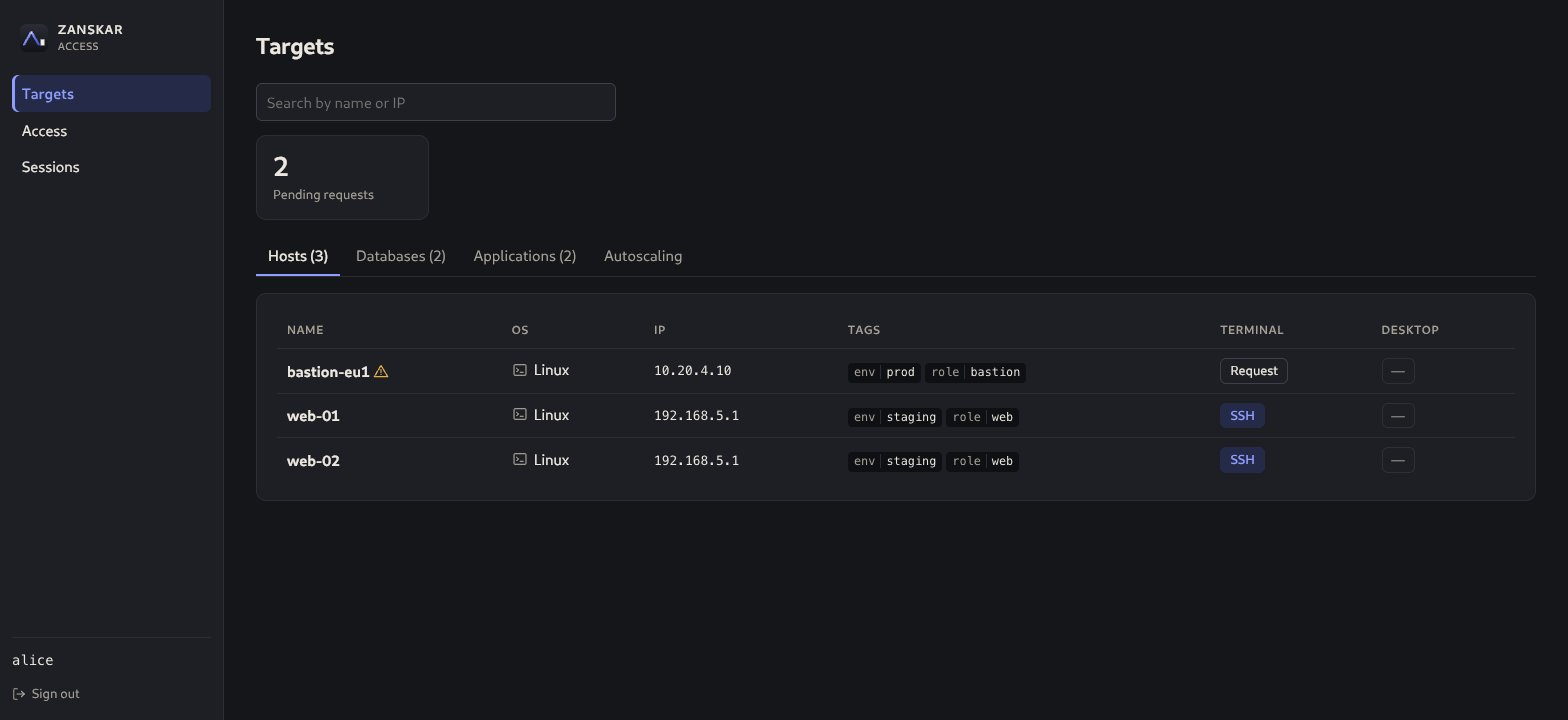
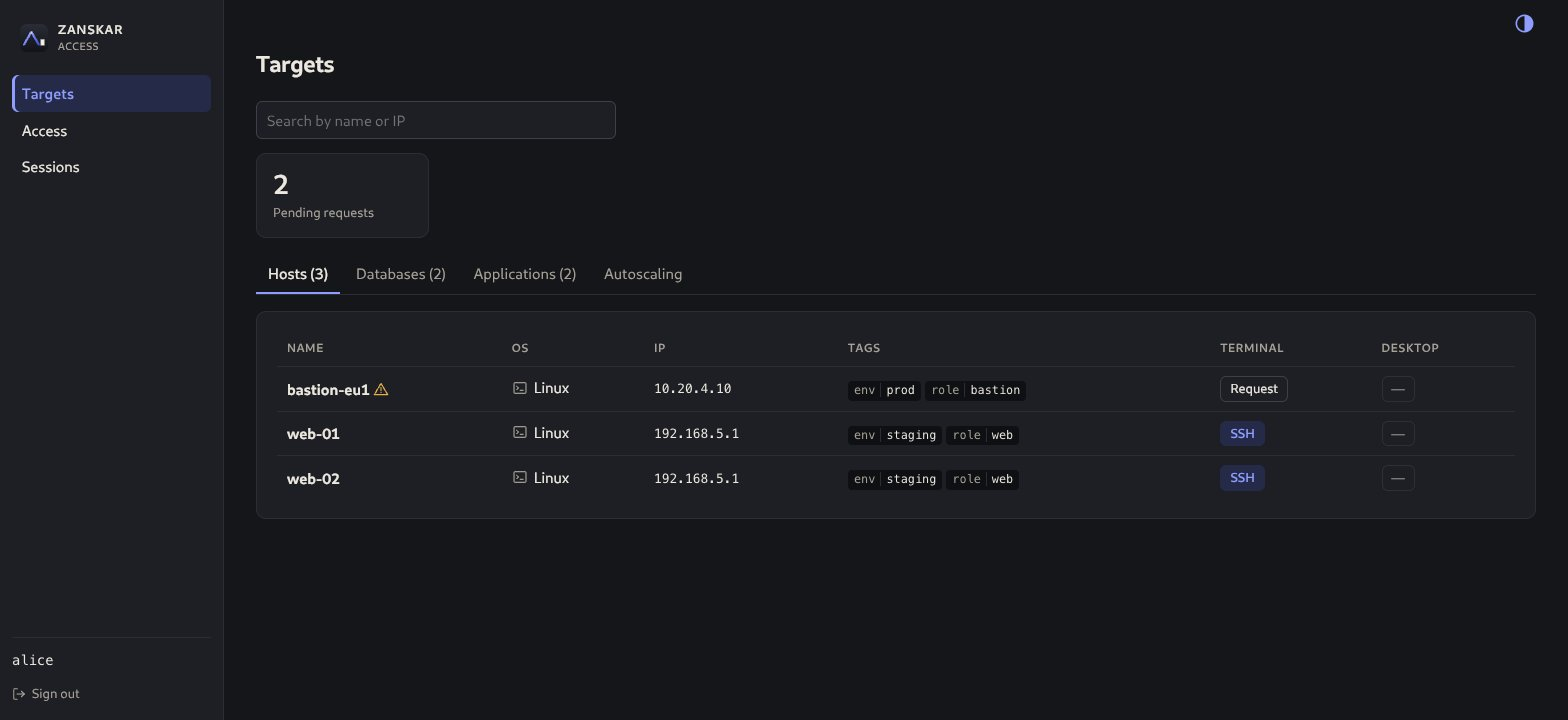
chore(release): 1.9.0
- Notes: docs/releases/v1.9.0.md (what changed, fixes, API, upgrading
  from 1.8.0 with the free-space-first step, migration 0038, the new
  units, moving off Caddy) and the site's releases page.
- latest.json and the JSON-LD at 1.9.0; the chart at 0.9.0 / 1.9.0;
  the roadmap's v1.9 section.
- Screenshots retaken at 1.9.0 from a Linux gateway, in both schemes;
  every page points at them, the alt texts describe the clock, the
  percentages, the policy list's sum and the gear's menu; the README's
  unversioned copies refreshed; the 1.8.0 set removed.

diff --git a/site/index.html b/site/index.html
@@ -18,7 +18,7 @@
   <link rel="icon" href="assets/logo.svg" type="image/svg+xml">
   <link rel="apple-touch-icon" href="assets/apple-touch-icon.png">
   <link rel="stylesheet" href="assets/site.css">
-  <script type="application/ld+json">{"@context":"https://schema.org","@type":"SoftwareApplication","name":"Zanskar","url":"https://albatroxxx.github.io/zanskar/","applicationCategory":"SecurityApplication","operatingSystem":"Linux","softwareVersion":"1.8.0","description":"Agentless access gateway: browser SSH, RDP, VNC, WinRM and database sessions with vaulted credentials, policies, just-in-time approvals, recording and a hash-chained audit log.","downloadUrl":"https://github.com/albatroxxx/zanskar/releases/latest","license":"https://github.com/albatroxxx/zanskar/blob/main/LICENSE","offers":{"@type":"Offer","price":"0","priceCurrency":"USD"}}</script>
+  <script type="application/ld+json">{"@context":"https://schema.org","@type":"SoftwareApplication","name":"Zanskar","url":"https://albatroxxx.github.io/zanskar/","applicationCategory":"SecurityApplication","operatingSystem":"Linux","softwareVersion":"1.9.0","description":"Agentless access gateway: browser SSH, RDP, VNC, WinRM and database sessions with vaulted credentials, policies, just-in-time approvals, recording and a hash-chained audit log.","downloadUrl":"https://github.com/albatroxxx/zanskar/releases/latest","license":"https://github.com/albatroxxx/zanskar/blob/main/LICENSE","offers":{"@type":"Offer","price":"0","priceCurrency":"USD"}}</script>
   <script src="assets/site.js" defer></script>
 </head>
 <body>
@@ -43,14 +43,14 @@
         <article><span class="index">09</span><h3>Recorded and audited</h3><p>Every session is recorded; recordings and command transcripts can be downloaded, and every view and download is itself audited. Retention is set globally and per policy or target. The audit log is hash-chained with a <code>verify</code> command and streams to a SIEM over syslog/CEF or a signed webhook.</p></article>
         <article><span class="index">10</span><h3>Operations</h3><p>One static binary with the web UI embedded. <code>zanskar init</code> serves HTTPS on 443 out of the box with a certificate you replace on the Settings page. Runtime settings apply live, the console says when the environment file needs a restart and drains sessions for it, recordings move to an S3-compatible bucket without a restart, and the Logs page shows the gateway's recent lines. Administrators can also work from a command line inside the console, opened with an authenticator code and audited line by line. <code>backup</code>, <code>restore</code> and <code>key rotate-master</code> stay on the host.</p></article>
       </div>
-      <figure><img src="assets/dashboard-light-1.8.0.jpg" width="1568" height="824" alt="The admin dashboard: tiles for what needs attention (two pending approvals), activity, and the inventory of hosts, databases and applications, then the gateway card with CPU, memory and disk gauges" loading="lazy"><figcaption>The dashboard an administrator lands on: what waits on a decision, what is live, the fleet, and the gateway host itself. Every number opens the page that manages it.</figcaption></figure>
+      <figure><img src="assets/dashboard-light-1.9.0.jpg" width="1568" height="824" alt="The admin dashboard: tiles for what needs attention (two pending approvals), activity, and the inventory of hosts, databases and applications, a clock with the date and time zone beside them, then the gateway card with CPU, memory and disk gauges, each as a percentage" loading="lazy"><figcaption>The dashboard an administrator lands on: what waits on a decision, what is live, the fleet, and the gateway host itself. Every number opens the page that manages it.</figcaption></figure>
       <div class="gallery">
-        <figure><img src="assets/approvals-light-1.8.0.jpg" width="1568" height="720" alt="The Approvals page: two pending requests with user, target, protocol, reason and duration, each with Approve and Deny, and one active time-boxed grant with Revoke" loading="lazy"><figcaption>Just-in-time requests wait in the Approvals queue; an approved grant is time-boxed and expires by itself.</figcaption></figure>
-        <figure><img src="assets/hosts-light-1.8.0.jpg" width="1568" height="720" alt="The Hosts page: Linux and Windows machines with capabilities, host-key trust state, tags and last probe time" loading="lazy"><figcaption>Hosts are enrolled by address; the host key is pinned at the first probe, and any change blocks connections until an admin decides.</figcaption></figure>
-        <figure><img src="assets/user-targets-light-1.8.0.jpg" width="1568" height="720" alt="The access portal: the hosts a user's policies grant, with an SSH button on each, a Request button on the bastion that needs approval, and a count of pending requests" loading="lazy"><figcaption>What a user sees: only the targets their policies grant, a button per protocol, and a request where approval is required.</figcaption></figure>
-        <figure><img src="assets/applications-light-1.8.0.jpg" width="1568" height="720" alt="The Applications page: a checklist of what the gateway host still needs, then two web applications with their upstream, TLS state and tags" loading="lazy"><figcaption>Web applications are enrolled by address and open in an isolated browser beside the gateway, recorded like a desktop.</figcaption></figure>
-        <figure><img src="assets/audit-events-light-1.8.0.jpg" width="1568" height="800" alt="The audit events page: filters by user, action, object and time, then a list of events in plain words, a sign-in, a session opened and ended, access requested, each with a success mark; a badge says the chain is intact" loading="lazy"><figcaption>Every event in plain words, hash-chained, with the chain verified on the page and from the command line.</figcaption></figure>
-        <figure><img src="assets/console-cli-light-1.8.0.jpg" width="1568" height="800" alt="The console's command line open over the Policies page, after a status command and a listing of pending requests; a badge says the authenticator code is verified" loading="lazy"><figcaption>An audited command line inside the console, unlocked with an authenticator code, for the operations an admin repeats.</figcaption></figure>
+        <figure><img src="assets/approvals-light-1.9.0.jpg" width="1568" height="720" alt="The Approvals page: two pending requests with user, target, protocol, reason and duration, each with Approve and Deny, and one active time-boxed grant with Revoke" loading="lazy"><figcaption>Just-in-time requests wait in the Approvals queue; an approved grant is time-boxed and expires by itself.</figcaption></figure>
+        <figure><img src="assets/hosts-light-1.9.0.jpg" width="1568" height="720" alt="The Hosts page: Linux and Windows machines with capabilities, host-key trust state, tags and last probe time" loading="lazy"><figcaption>Hosts are enrolled by address; the host key is pinned at the first probe, and any change blocks connections until an admin decides.</figcaption></figure>
+        <figure><img src="assets/user-targets-light-1.9.0.jpg" width="1568" height="720" alt="The access portal: the hosts a user's policies grant, with an SSH button on each, a Request button on the bastion that needs approval, and a count of pending requests" loading="lazy"><figcaption>What a user sees: only the targets their policies grant, a button per protocol, and a request where approval is required.</figcaption></figure>
+        <figure><img src="assets/applications-light-1.9.0.jpg" width="1568" height="720" alt="The Applications page: a checklist of what the gateway host still needs, then two web applications with their upstream, TLS state and tags" loading="lazy"><figcaption>Web applications are enrolled by address and open in an isolated browser beside the gateway, recorded like a desktop.</figcaption></figure>
+        <figure><img src="assets/audit-events-light-1.9.0.jpg" width="1568" height="800" alt="The audit events page: filters by user, action, object and time, then a list of events in plain words, a sign-in, a session opened and ended, access requested, each with a success mark; a badge says the chain is intact" loading="lazy"><figcaption>Every event in plain words, hash-chained, with the chain verified on the page and from the command line.</figcaption></figure>
+        <figure><img src="assets/console-cli-light-1.9.0.jpg" width="1568" height="800" alt="The console's command line open over the Policies page, after a status command and a listing of pending requests; a badge says the authenticator code is verified" loading="lazy"><figcaption>An audited command line inside the console, unlocked with an authenticator code, for the operations an admin repeats.</figcaption></figure>
       </div>
     </section>
     <section class="principles band"><div><p class="eyebrow">HOW IT IS BUILT</p><h2>Secure by default.</h2><p>Zanskar is designed for compliance-driven environments: least standing privilege, separated authentication, and evidence for everything.</p><p>Read the <a href="https://github.com/albatroxxx/zanskar/blob/main/docs/threat-model.md">threat model</a> and the <a href="https://github.com/albatroxxx/zanskar/tree/main/docs/adr">architecture decision records</a>.</p></div><dl><div><dt>Two authentications, kept apart</dt><dd>Who you are to Zanskar (local, OIDC, LDAP/AD, MFA) is separate from how Zanskar authenticates to a target (password, key, certificate, domain credential).</dd></div><div><dt>Least standing privilege</dt><dd>Sensitive targets can be made eligible-only, so access exists only as a time-boxed, approved, audited grant.</dd></div><div><dt>Evidence for everything</dt><dd>Hash-chained audit log, recorded sessions, audited reads, SIEM export, signed releases with Sigstore.</dd></div><div><dt>Single instance, on purpose</dt><dd>One gateway, on embedded SQLite or your PostgreSQL, with a guacd sidecar for desktops. Running several replicas is not supported yet: ending or watching a live session has to work across gateways first, and the Helm chart stays a preview until it does.</dd></div></dl></section>

diff --git a/site/releases/index.html b/site/releases/index.html
@@ -2,7 +2,7 @@
 <html lang="en"><head>
   <meta charset="utf-8"><meta name="viewport" content="width=device-width, initial-scale=1">
   <title>Zanskar Releases</title>
-  <meta name="description" content="Zanskar 1.8.0: access policies as an audience and grants, with conditions per grant and every stored policy converted with the same access. Notes for every version.">
+  <meta name="description" content="Zanskar 1.9.0: host actions with progress, install settings and Let's Encrypt from the console, one time zone, a lighter browser image. Notes for every version.">
   <link rel="canonical" href="https://albatroxxx.github.io/zanskar/releases/">
   <meta name="robots" content="index,follow"><meta property="og:type" content="website">
   <meta property="og:title" content="Zanskar Releases"><meta property="og:description" content="Release notes for Zanskar, the agentless access gateway.">
@@ -11,8 +11,13 @@
 </head><body>
   <a class="skip" href="#main">Skip to content</a>
   <header class="site-header"><a class="brand" href="../"><img src="../assets/logo.svg" alt="" width="32" height="32">Zanskar</a><nav aria-label="Main"><a href="../docs/">Get started</a><a href="../guide/">How-to guide</a><a href="../concepts/">Concepts</a><a href="../troubleshooting/">Troubleshooting</a><a href="./" aria-current="page">Releases</a><a href="https://github.com/albatroxxx/zanskar">GitHub &#8599;</a></nav></header>
-  <main id="main" class="docs-layout"><nav class="docs-nav" aria-label="Release navigation"><a href="#v1-8-0">v1.8.0</a><a href="#upgrade-1-8-0">Upgrading to 1.8.0</a><a href="#v1-7-2">v1.7.2</a><a href="#upgrade-1-7-2">Upgrading to 1.7.2</a><a href="#v1-7-1">v1.7.1</a><a href="#upgrade-1-7-1">Upgrading to 1.7.1</a><a href="#v1-7-0">v1.7.0</a><a href="#upgrade-1-7-0">Upgrading to 1.7.0</a><a href="#v1-6-0">v1.6.0</a><a href="#upgrade-1-6-0">Upgrading to 1.6.0</a><a href="#v1-5-0">v1.5.0</a><a href="#upgrade-1-5-0">Upgrading to 1.5.0</a><a href="#v1-4-1">v1.4.1</a><a href="#upgrade-1-4-1">Upgrading to 1.4.1</a><a href="#v1-4-0">v1.4.0</a><a href="#upgrade-1-4-0">Upgrading to 1.4.0</a><a href="#v1-3-0">v1.3.0</a><a href="#upgrade-1-3-0">Upgrading to 1.3.0</a><a href="#v1-2-2">v1.2.2</a><a href="#upgrade-1-2-2">Upgrading to 1.2.2</a><a href="#v1-2-1">v1.2.1</a><a href="#upgrade-1-2-1">Upgrading to 1.2.1</a><a href="#v1-2">v1.2.0</a><a href="#limits-1-2">Known limitations</a><a href="#upgrade">Upgrading</a><a href="#v1">v1.0.0</a><a href="#next">What comes next</a><a href="../docs/">Installation</a><a href="https://github.com/albatroxxx/zanskar/releases">All releases</a></nav><article class="prose">
-    <p class="eyebrow">RELEASE NOTES</p><h1 id="v1-8-0">Zanskar v1.8.0</h1><p class="release-date">Latest release</p>
+  <main id="main" class="docs-layout"><nav class="docs-nav" aria-label="Release navigation"><a href="#v1-9-0">v1.9.0</a><a href="#upgrade-1-9-0">Upgrading to 1.9.0</a><a href="#v1-8-0">v1.8.0</a><a href="#upgrade-1-8-0">Upgrading to 1.8.0</a><a href="#v1-7-2">v1.7.2</a><a href="#upgrade-1-7-2">Upgrading to 1.7.2</a><a href="#v1-7-1">v1.7.1</a><a href="#upgrade-1-7-1">Upgrading to 1.7.1</a><a href="#v1-7-0">v1.7.0</a><a href="#upgrade-1-7-0">Upgrading to 1.7.0</a><a href="#v1-6-0">v1.6.0</a><a href="#upgrade-1-6-0">Upgrading to 1.6.0</a><a href="#v1-5-0">v1.5.0</a><a href="#upgrade-1-5-0">Upgrading to 1.5.0</a><a href="#v1-4-1">v1.4.1</a><a href="#upgrade-1-4-1">Upgrading to 1.4.1</a><a href="#v1-4-0">v1.4.0</a><a href="#upgrade-1-4-0">Upgrading to 1.4.0</a><a href="#v1-3-0">v1.3.0</a><a href="#upgrade-1-3-0">Upgrading to 1.3.0</a><a href="#v1-2-2">v1.2.2</a><a href="#upgrade-1-2-2">Upgrading to 1.2.2</a><a href="#v1-2-1">v1.2.1</a><a href="#upgrade-1-2-1">Upgrading to 1.2.1</a><a href="#v1-2">v1.2.0</a><a href="#limits-1-2">Known limitations</a><a href="#upgrade">Upgrading</a><a href="#v1">v1.0.0</a><a href="#next">What comes next</a><a href="../docs/">Installation</a><a href="https://github.com/albatroxxx/zanskar/releases">All releases</a></nav><article class="prose">
+    <p class="eyebrow">RELEASE NOTES</p><h1 id="v1-9-0">Zanskar v1.9.0</h1><p class="release-date">Latest release</p>
+    <p>The console after a walk through it on a live gateway. Restart, reboot, stop and update follow the action to its end, with a green tick or the reason it failed, and the gear and the bell drop from their buttons. On a package install, install settings (the public URL, TLS hosts, the TLS mode and a few more) change from the Settings page: a root helper applies the change, checks the gateway would start with it, and puts the old file back if the gateway does not come back. In managed mode the gateway gets its own certificate from Let's Encrypt. Deleting a host, database, application or autoscaling group takes it out of its policies, after a dialog that lists what it reaches, instead of being refused. Every time in the console follows one time zone, set in Settings, and the dashboard has a clock and a percentage on every gauge. The policy list sums each policy up and opens to its grants; the editor has Select all and shows the protocols a probe did not find. A theme menu offers System, Light and Dark. The browser image is Debian 13 with Chromium 156, about a 270 MB download instead of 340 MB, and the gateway removes earlier versions' images from its host.</p>
+    <p><a class="button primary" href="../docs/#install">Install</a> <a class="button" href="https://github.com/albatroxxx/zanskar/releases/tag/v1.9.0">Release on GitHub</a> <a class="button" href="https://github.com/albatroxxx/zanskar/blob/main/docs/releases/v1.9.0.md">The full notes</a></p>
+    <h2 id="upgrade-1-9-0">Upgrading from 1.8.0 to 1.9.0</h2>
+    <p><strong>Free disk space first</strong> on a host that runs applications and is short of it: the new browser image is a full download, and the gateway removes the old images on its first pass after the upgrade, but an application opened before that pulls the new one beside them. <code>sudo docker image rm ghcr.io/albatroxxx/zanskar-browser:1.8.0 ghcr.io/albatroxxx/zanskar:1.8.0</code> (and any older tags) does it by hand. Then install the new package, or set <code>ZANSKAR_VERSION=1.9.0</code>, and restart. Migration 0038 adds one table; 1.8.0 still starts on the migrated database. The package adds <code>zanskar-config.path</code>, which lets the console change install settings; a tarball or the AWS reference install does not have it. To move a Caddy-fronted gateway to the gateway's own Let's Encrypt certificate, set the public URL, stop Caddy, then switch the TLS mode to managed. Deleting a target named by a policy now succeeds where it answered <code>409 in_use</code>; <code>POST /users</code> and <code>POST /groups</code> take <code>group_ids</code> and <code>user_ids</code>.</p>
+    <h2 id="v1-8-0">Zanskar v1.8.0</h2><p class="release-date">30 October 2026</p>
     <p>Access policies, redesigned. A policy now says who it is for, any number of groups and users picked from searchable lists, and holds grants. Each grant picks a type of target first (host, database, application or autoscaling group), then the targets with a protocol each, or tags as Key and Value rows, then its own conditions: standing or approval, the target's credential or the person's own login, an authenticator, clipboard, file transfer, idle and maximum, days to keep recordings, and time windows. One policy can give a team standing SSH to staging and approval-only RDP to production. Where grants overlap, standing access wins over approval and each limit is the strictest. Live sessions are checked again whenever a policy or a group changes, and end when a fresh connect would be refused or when clipboard or file transfer would now be off. Deleting a group takes it out of its policies, which stay. The access portal offers <em>as me</em> where a grant signs a person in with their own login.</p>
     <p><a class="button primary" href="../docs/#install">Install</a> <a class="button" href="https://github.com/albatroxxx/zanskar/releases/tag/v1.8.0">Release on GitHub</a> <a class="button" href="https://github.com/albatroxxx/zanskar/blob/main/docs/releases/v1.8.0.md">The full notes</a></p>
     <h2 id="upgrade-1-8-0">Upgrading from 1.7.2 to 1.8.0</h2>

diff --git a/site/troubleshooting/index.html b/site/troubleshooting/index.html
@@ -9,7 +9,7 @@
   <meta property="og:title" content="Troubleshooting">
   <meta property="og:description" content="Where Zanskar logs, what its log lines and error codes mean, and the fix for each: guacd down, host key mismatch, wrong version number, invalid ticket, approval required.">
   <meta property="og:type" content="website"><meta property="og:url" content="https://albatroxxx.github.io/zanskar/troubleshooting/">
-  <meta property="og:image" content="https://albatroxxx.github.io/zanskar/assets/policies-1.8.0.jpg"><meta name="twitter:card" content="summary_large_image">
+  <meta property="og:image" content="https://albatroxxx.github.io/zanskar/assets/policies-1.9.0.jpg"><meta name="twitter:card" content="summary_large_image">
   <link rel="icon" href="../assets/logo.svg" type="image/svg+xml"><link rel="stylesheet" href="../assets/site.css"><script src="../assets/site.js" defer></script>
 </head>
 <body>

diff --git a/site/concepts/index.html b/site/concepts/index.html
@@ -9,7 +9,7 @@
   <meta property="og:title" content="Key concepts">
   <meta property="og:description" content="The master key, ExternalIds, host-key and certificate pins, session cookies, CSRF tokens and connect tickets: what each is, when it changes, how to back it up and rotate it.">
   <meta property="og:type" content="website"><meta property="og:url" content="https://albatroxxx.github.io/zanskar/concepts/">
-  <meta property="og:image" content="https://albatroxxx.github.io/zanskar/assets/policies-1.8.0.jpg"><meta name="twitter:card" content="summary_large_image">
+  <meta property="og:image" content="https://albatroxxx.github.io/zanskar/assets/policies-1.9.0.jpg"><meta name="twitter:card" content="summary_large_image">
   <link rel="icon" href="../assets/logo.svg" type="image/svg+xml"><link rel="stylesheet" href="../assets/site.css"><script src="../assets/site.js" defer></script>
 </head>
 <body>

diff --git a/docs/releases/v1.9.0.md b/docs/releases/v1.9.0.md
@@ -1,0 +1,135 @@
+# Zanskar 1.9.0
+
+The console after a walk through it on a live gateway. Host actions and updates show their
+progress and how they ended; install settings change from the console through a root
+helper that rolls back a change the gateway does not come back from; the gateway gets its
+own Let's Encrypt certificate in managed mode; deleting a host takes it out of its
+policies; every time follows one time zone; the dashboard reads in percentages; the policy
+list and editor handle dozens of targets; and the browser image is lighter, with old images
+removed after an upgrade. Built with Go 1.27.3.
+
+## What changed
+
+- **Host actions show progress.** Restart gateway, Reboot host, Stop host and Install
+  follow the action to its end: waiting for live sessions (how many, until when), the
+  installer's own words, restarting, and back, with a green tick ("Updated to 1.9.0",
+  "Host rebooted") or the reason it failed. Success is judged by the gateway's answers: a
+  fresh process, on the version asked for. The drain can be cancelled from the same view.
+- **The gear and the bell drop from their buttons**, as cloud consoles' Actions menus do.
+  An action the host cannot take is greyed with one line of why ("Needs a systemd host.").
+- **A theme menu** beside the bell: System, Light or Dark, kept per browser and applied
+  before the first paint. The corner icons are 10% smaller. The command line's header is
+  glyphs with their words on hover; its code step is one line.
+- **Install settings from the console.** On a package install, Settings, Set at install has
+  Edit on the public URL, TLS hosts, issuer, log format, the Apps and Database session caps
+  and the AWS gateway principal, and a switch between the managed and proxy TLS presets.
+  The gateway never writes its environment file: it asks, after a fresh authenticator code
+  and a drain, and `zanskar-config.service` applies the change as root, checks that the
+  gateway would start with the new file, keeps the old one as `env.previous`, restarts, and
+  puts the old file back if the gateway does not answer within 60 seconds. Everything else
+  (database, master key, container runtime, listen address outside the presets, plain
+  HTTP, proxy trust, TLS file paths) stays install-only. `zanskar config check --env FILE`
+  says whether the gateway would start with a file. ([ADR 0020](../adr/0020-runtime-settings-console-overrides-environment.md), amended.)
+- **Let's Encrypt in managed mode.** Settings, Let's Encrypt: on, an account email, and an
+  ACME directory (Let's Encrypt by default, or a private ACME CA). The gateway orders a
+  certificate for the public URL's host and the DNS names among the TLS hosts, never for a
+  name a stranger sends, answers the CA on its TLS and :80 listeners, renews on its own, and
+  keeps the account and certificates sealed in the database, so a second gateway on it
+  reuses them. An uploaded certificate still wins. A CA that is down costs a handshake at
+  most 10 seconds before the next certificate serves. ([ADR 0021](../adr/0021-managed-tls-certificate.md), amended.)
+- **Deleting a target takes it out of its policies** instead of being refused while any
+  policy names it. The delete dialog lists what it reaches (the policies that lose it, a
+  grant left naming nothing, live sessions, open access requests) and asks for the name;
+  one transaction removes the target from every grant and closes its requests, then its
+  sessions end (`target_deleted`). A policy left with no grant stays and grants nobody.
+  ([ADR 0036](../adr/0036-access-policy-grants.md), amended.)
+- **One time zone.** Settings, Display, Time zone sets the zone of every time in the
+  console, all three portals, and of the dashboard's new clock; the default is the gateway
+  host's zone. The operating system is not touched.
+- **The dashboard reads in percentages**: CPU busy, memory used, and each disk as `df`'s
+  Use%, in the warning colour when it is one. A CPU reading after a long gap starts fresh
+  instead of averaging the gap.
+- **The policy list** sums each policy up ("3 grants · Host 2 · Autoscaling 1") with an
+  Access column for the loosest terms (a danger badge on standing access without an
+  authenticator) and opens to a table of its grants.
+- **The policy editor** has Select all in every pick list, an "All chosen" row that sets one
+  protocol on every chosen target, and shows the protocols a target's operating system
+  usually serves that its last probe did not find, greyed; one a grant already chooses shows
+  in the warning colour.
+- **Add host** asks for a hostname or IP address and shows the ports its operating system
+  uses, with the rarer ones under More ports. "Recording retention (days)" says its order:
+  the target's, then the grant's, then the global.
+- **Users and groups**: pick a user's groups as you add the user, and a group's members as
+  you create the group (`group_ids` and `user_ids` on the create calls; an unknown or
+  provider-synced group, or an unknown user, refuses the whole request).
+- **Settings** shows Desktops as an on/off switch, with guacd's address under Advanced, and
+  the relay and browser images under Advanced, with a warning on a custom one.
+- **A lighter browser image.** Debian 13 with Chromium 156, without the software GL stack,
+  Perl or Chromium's Vulkan validation layer, none of which it uses: about a 270 MB download
+  and 660 MB on disk, from 340 MB and 900 MB. Releases build its package layer only when
+  Debian's packages changed and take it from the previous release otherwise, so most
+  upgrades will download a few kilobytes of it. This one is a full download (a new base);
+  the saving starts with the release after it.
+- **Old images are removed.** On start and every five minutes the gateway removes earlier
+  versions' browser and relay images from its host: only images carrying Zanskar's source
+  label, never one a container uses, never from a development build. Audited as
+  `system.images_remove`. Settings, Updates, Remove old images turns it off.
+
+## Fixed
+
+- The Applications checklist said "cannot use docker: exec: no command" on an install with
+  no `ZANSKAR_DOCKER_PATH`, and Add application stayed hidden; sessions worked. The check
+  now runs `docker` from the PATH, as sessions do.
+- Admin lists (hosts, users, groups, autoscaling groups) loaded their first 500 rows only,
+  so the policy editor's pick lists missed the rest. They load every page.
+- A failed install (a download that did not verify, a package that would not install) left
+  the gateway draining, refusing new sessions, until someone cancelled. It serves again,
+  with a failure audit event, when the installer reports a failure or stays silent for 20
+  minutes.
+
+## API
+
+- New: `GET /api/v1/targets/{id}/usage` and `GET /api/v1/autoscaling-groups/{id}/usage`
+  (what a delete reaches); `POST /api/v1/admin/settings/boot` and
+  `GET /api/v1/admin/settings/boot/result` (install settings).
+- Changed: `DELETE` of a target or an autoscaling group named by a policy succeeds and
+  removes it from the policy, where it answered `409 in_use`. `POST /users` takes
+  `group_ids`, `POST /groups` takes `user_ids`. `/auth/me` carries `time_zone`; the system
+  status carries `now`. Live sessions of a deleted target end with `target_deleted`.
+- New runtime settings: `display.time_zone`, `tls.acme`, `tls.acme_email`,
+  `tls.acme_directory`, `updates.remove_old_images`. New audit actions:
+  `settings.boot_request`, `settings.boot_apply`, `system.images_remove`.
+
+## Upgrading from 1.8.0
+
+**Free disk space first** if the host runs applications and is short of it: the new browser
+image is a full download, and the gateway removes the old ones on its first pass after the
+upgrade, but an application opened before that pass pulls the new image beside them.
+
+```
+sudo docker image rm ghcr.io/albatroxxx/zanskar-browser:1.8.0 ghcr.io/albatroxxx/zanskar:1.8.0
+```
+
+(add any older `1.7.x` tags `sudo docker image ls | grep albatroxxx` lists). Then install the
+new package, or set `ZANSKAR_VERSION=1.9.0`, and restart. To spare the first application
+session the pull, pull ahead:
+
+```
+docker pull ghcr.io/albatroxxx/zanskar-browser:1.9.0
+docker pull ghcr.io/albatroxxx/zanskar:1.9.0
+```
+
+One migration runs: 0038 creates the `acme_cache` table. 1.8.0 starts on the migrated
+database, so a downgrade needs no restore.
+
+The package installs and enables `zanskar-config.path` and `zanskar-config.service`, which
+let the console change install settings. A tarball install or the AWS reference install
+does not have them; there, Edit asks and nothing applies it, and the gateway serves again
+after 10 minutes saying so; [deploy.md](../deploy.md#changing-boot-settings-and-restarting)
+says how to add them.
+
+**Moving a Caddy-fronted gateway to Let's Encrypt in the gateway itself**: switch the TLS
+mode to managed from the console only after stopping Caddy (`sudo systemctl disable --now
+caddy`), since the gateway needs ports 80 and 443. If Caddy still holds them, the gateway
+does not come back on the new settings and the helper puts the proxy settings back after
+about a minute. Set the public URL first; Let's Encrypt orders for its host.

diff --git a/docs/roadmap.md b/docs/roadmap.md
@@ -102,6 +102,18 @@ Deferred by decision: a multi-pane workspace (browser tabs suffice), rotation of
 keys and of Windows or database passwords (the certificate authority and the owning systems
 do that). Still Phase 4: HA, SAML/SCIM, WebAuthn.
 
+## v1.9 release — shipped (v1.9.0 tagged 2026-10-31)
+
+Fifteen findings from walking the live 1.8.0 console. Host actions and updates show progress
+to a green tick or the reason; install settings change from the console through a root helper
+that checks and rolls back ([ADR 0020](adr/0020-runtime-settings-console-overrides-environment.md),
+amended); a managed gateway gets its own Let's Encrypt certificate
+([ADR 0021](adr/0021-managed-tls-certificate.md), amended); deleting a target takes it out of
+its policies ([ADR 0036](adr/0036-access-policy-grants.md), amended); one time zone for every
+time shown; percentages and a clock on the dashboard; a policy list that sums up and an editor
+for dozens of targets; a theme menu; a lighter browser image and old images removed after an
+upgrade ([release notes](releases/v1.9.0.md)).
+
 ## v1.8 release — shipped (v1.8.0 tagged 2026-10-30)
 
 Access policies are redesigned ([ADR 0036](adr/0036-access-policy-grants.md)): a policy names
